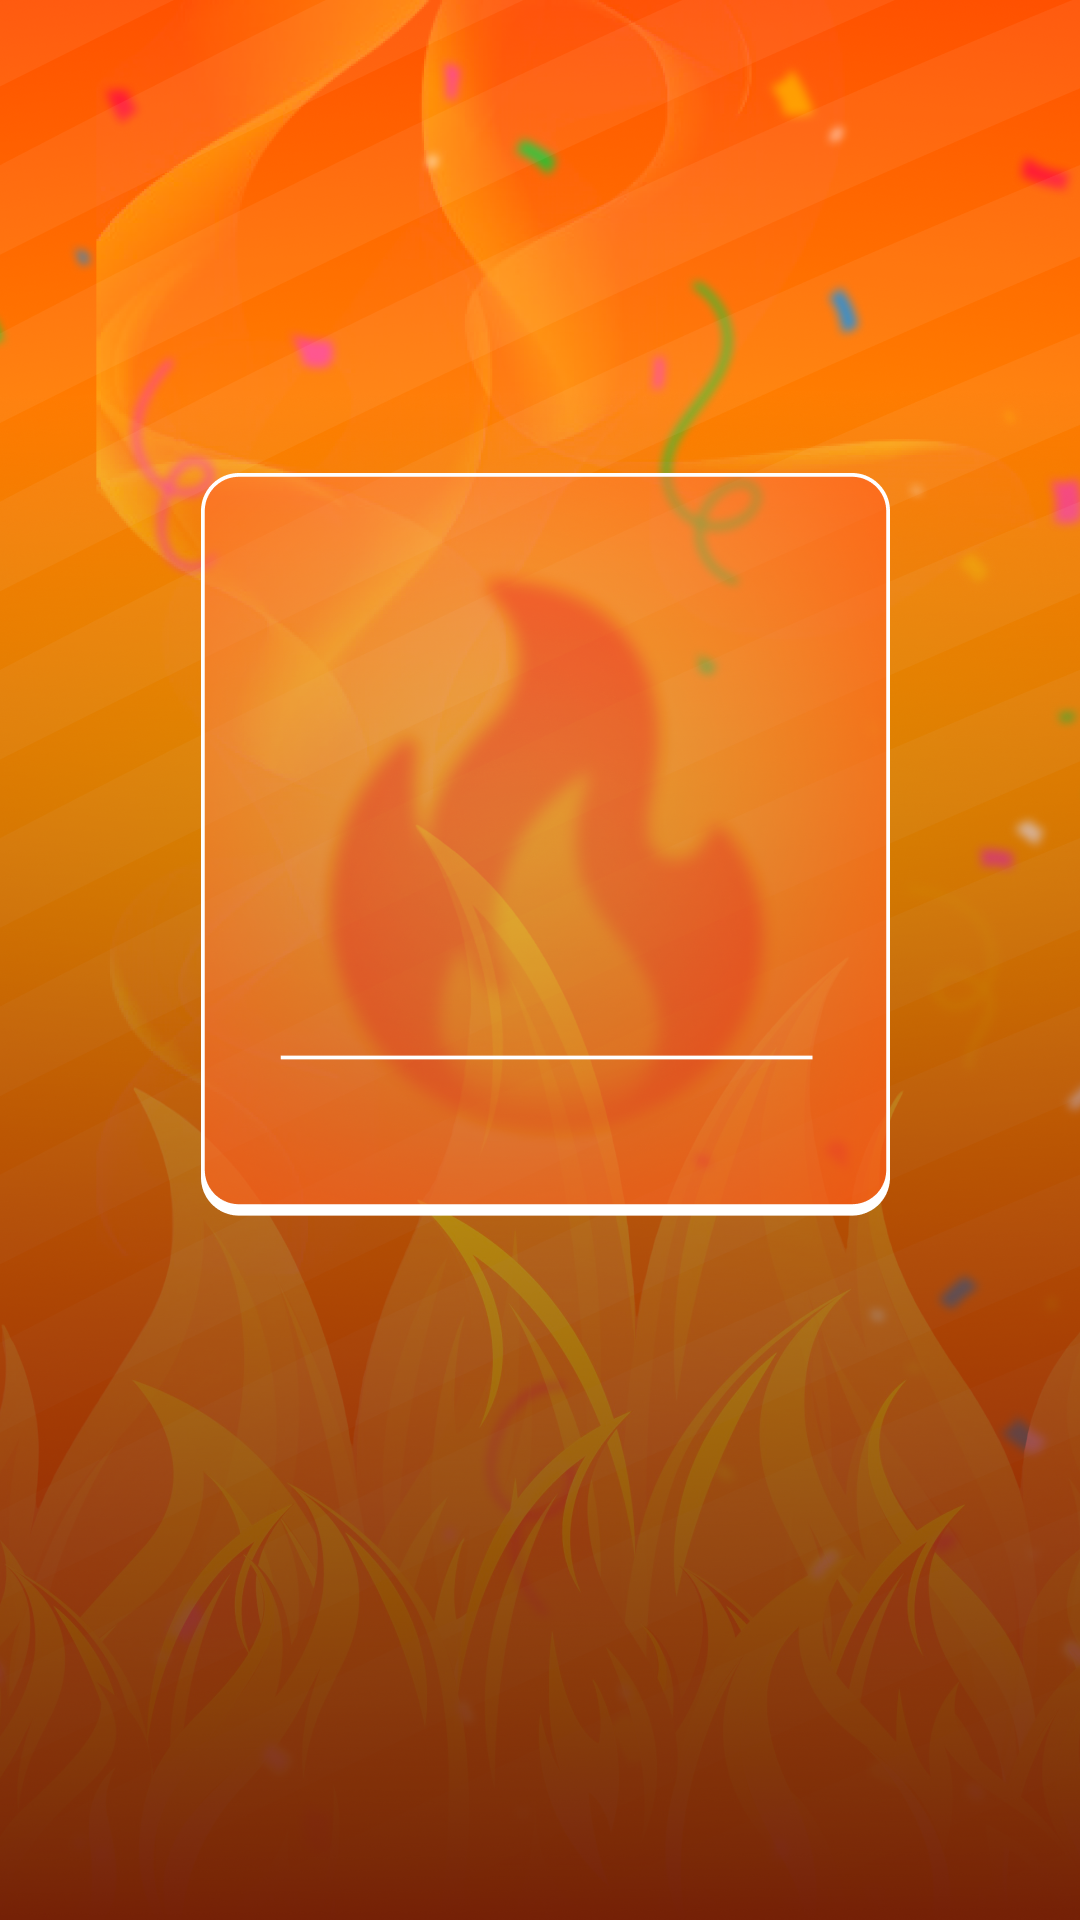
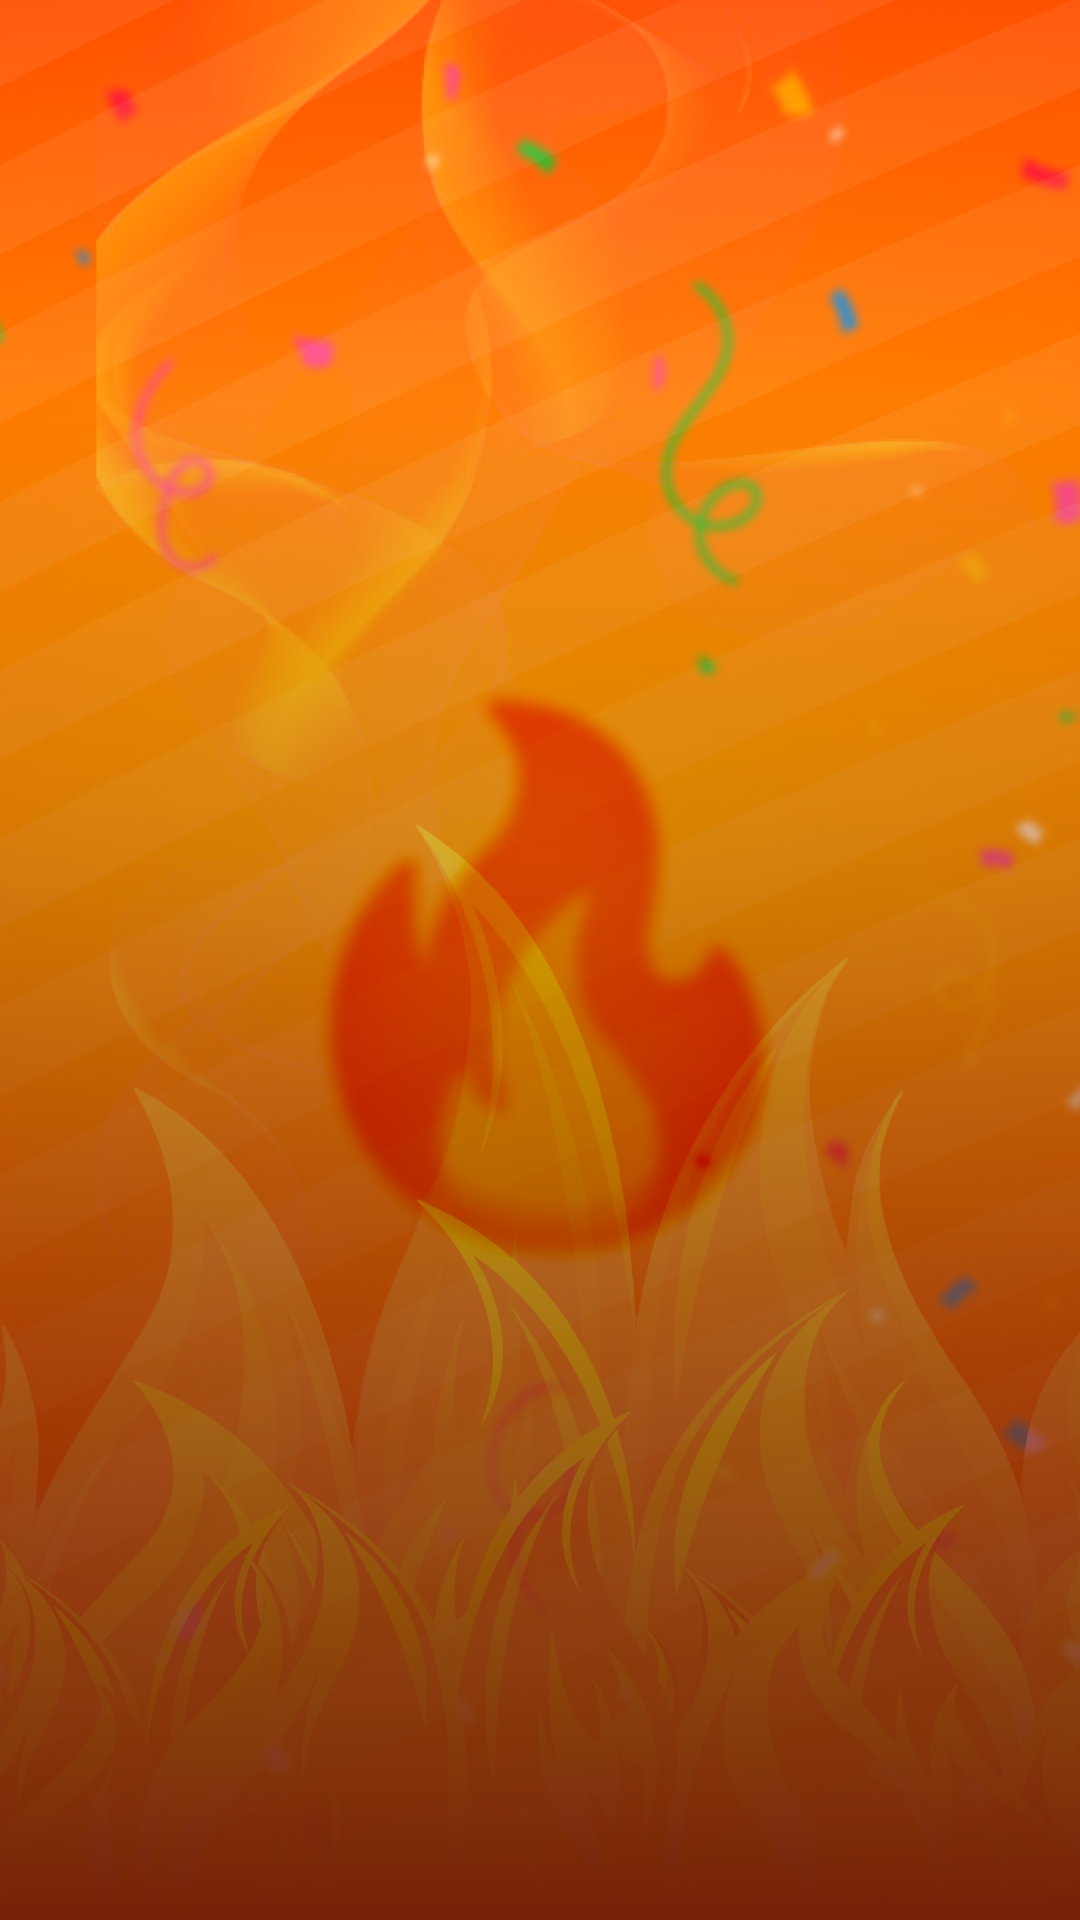
style: Fine-tune streak share story layout and card size

Changed region(s): [[0.1833, 0.2188, 0.825, 0.6562]]

diff --git a/lib/features/streaks/utils/streak_share_utils.dart b/lib/features/streaks/utils/streak_share_utils.dart
@@ -80,18 +80,21 @@ class StreakShareUtils {
               ),
 
               // 2. Central Minimalist UI
-              Center(
+              // 2. Central Minimalist UI - Shifted Upwards
+              Align(
+                alignment: const Alignment(0, -0.2), // Slightly above center
                 child: Column(
-                  mainAxisAlignment: MainAxisAlignment.center,
+                  mainAxisSize: MainAxisSize.min,
                   children: [
                     // Glassmorphism Achievement Card
                     ClipRRect(
                       borderRadius: BorderRadius.circular(20),
                       child: BackdropFilter(
-                        filter: ImageFilter.blur(sigmaX: 0, sigmaY: 0), // Adjust if you want actual blur
+                        filter: ImageFilter.blur(sigmaX: 0, sigmaY: 0),
                         child: Container(
                           width: 280,
-                          padding: const EdgeInsets.symmetric(vertical: 40, horizontal: 20),
+                          padding: const EdgeInsets.symmetric(
+                              vertical: 30, horizontal: 20), // Shrunk height
                           decoration: BoxDecoration(
                             color: Colors.white.withValues(alpha: 0.2),
                             borderRadius: BorderRadius.circular(20),
@@ -119,15 +122,16 @@ class StreakShareUtils {
                                 ),
                               ),
                               const SizedBox(height: 20),
-                              
+
                               // "ايام دراسية دون انقطاع" Label
                               SvgPicture.string(daysLabelSvg, width: 220),
-                              
+
                               const SizedBox(height: 30),
-                              
+
                               // Dynamic Date Styled as the SVG
                               Text(
-                                DateFormat('dd MMMM yyyy', 'ar').format(DateTime.now()),
+                                DateFormat('dd MMMM yyyy', 'ar')
+                                    .format(DateTime.now()),
                                 style: const TextStyle(
                                   fontSize: 18,
                                   fontWeight: FontWeight.bold,
